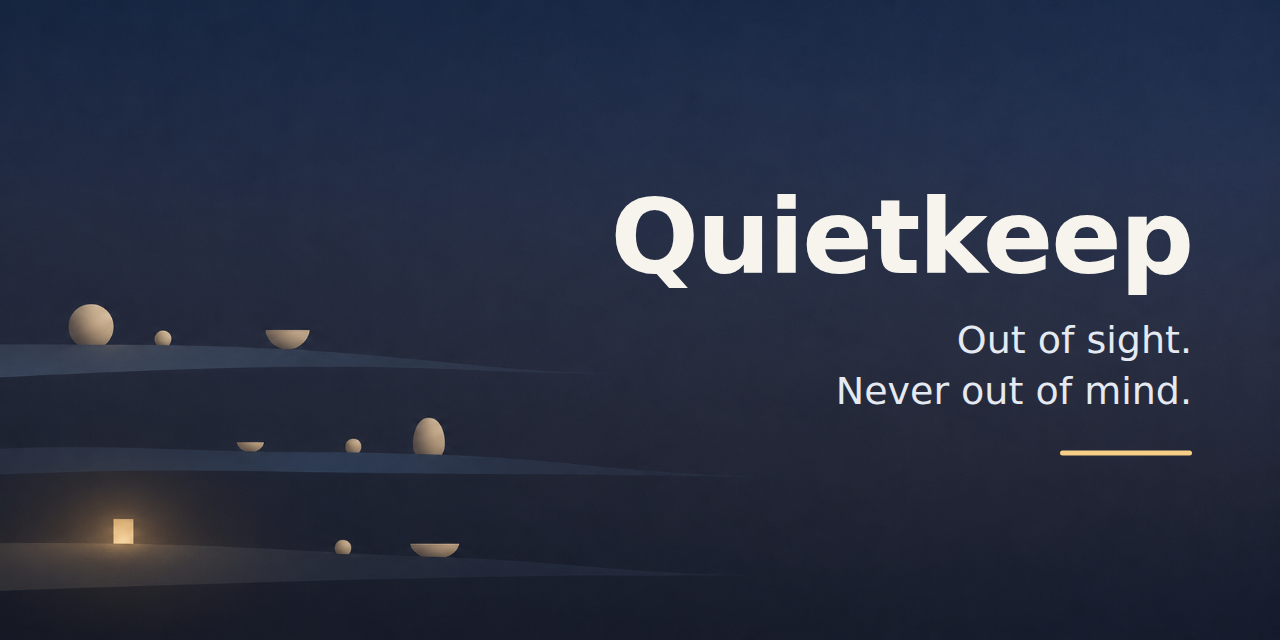
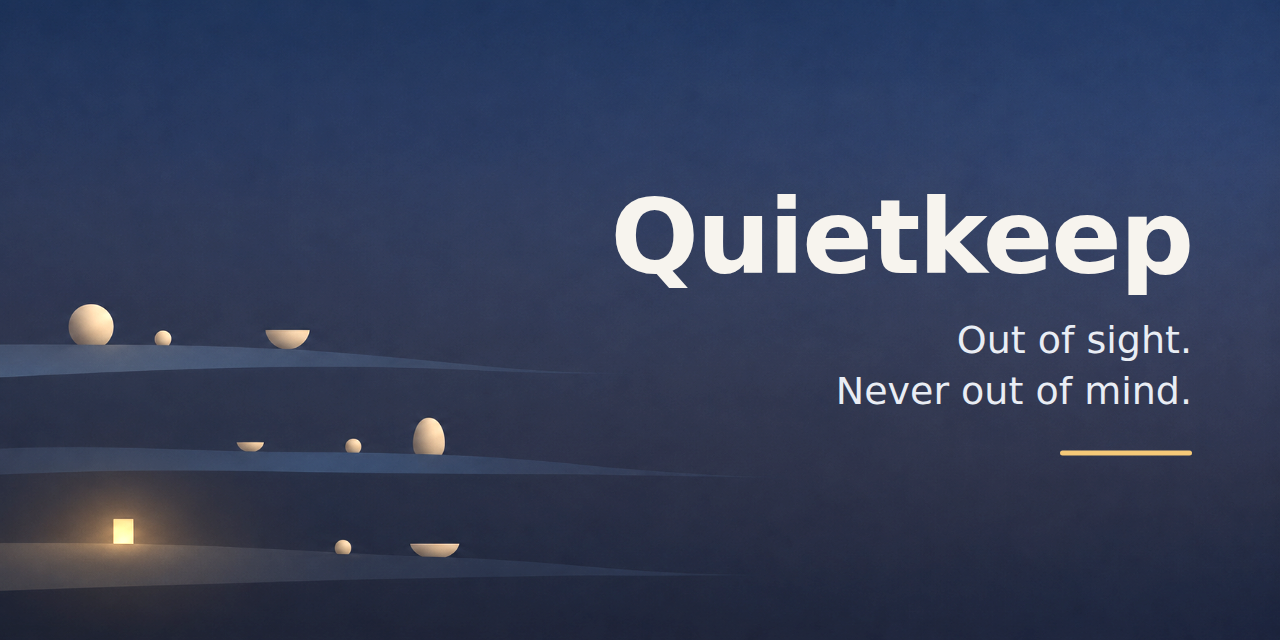
No spiral, and the mark comes out of the dark
Two calls from Noah, both right.

NO SPIRAL. Both loop candidates are dead for a reason better than the
ones I gave. "A spiral is the loss of control, and anxiety laden" — it
is the shape of tightening inward with no way out. Quietkeep exists to
meet people at exactly that moment, so putting it on the front door says
the app is the feeling rather than the answer to it. However good the
geometry, that is a voice failure.

Every check I ran on those two was a COLLISION check: does this look
like another brand, an app icon, a spinner. None asked what the shape
means to the audience. That is the visual form of never saying the name
aloud, and it is the same failure as wince.

It is now a flat product rule in CLAUDE.md — no spiral anywhere, not the
identity, not a loading state, not an illustration — beside no red walls
and no streaks. Reasoning in ADR-0025.

LESS DARK. Not a straight lighten, which turned out to be impossible.
The mark is a three-step ladder (wall 3:1 over field, light 3:1 over
wall), so it needs ~9:1 of range end to end. A light field leaves
nowhere for the light to go; every lift-everything variant failed the
second step at 2.0-2.4:1.

So the wall inverted instead: warm paper field, dark wall, warm opening.
The opening still reads as lit because what surrounds it is dark, which
is the one property the whole idea depends on. It measures better too —
8.92:1 and 6.48:1 against the old 3.34:1 and 3.45:1 — and the old wall
[…]

diff --git a/docs/adr/0025-visual-identity.md b/docs/adr/0025-visual-identity.md
@@ -28,13 +28,29 @@ and SVG is text, so the identity is diffable and reviewable like everything else
 
 | Candidate | Why not |
 |---|---|
-| Thin spiral | The stroke and its gap both vanish at 48px. Reads as an **@ sign**, and is one frame from a loading spinner. |
-| Bold loop | The best *idea* of the three — something leaves and returns, which is the product. Same **@ / spinner** collision, plus a drop shadow that muddies at small sizes and breaks on light surfaces. |
+| Thin spiral | The stroke and its gap both vanish at 48px. Reads as an **@ sign**, and is one frame from a loading spinner. **And it spirals** — see below, which is the disqualifying reason. |
+| Bold loop | The best *idea* of the three — something leaves and returns, which is the product. Same **@ / spinner** collision, a drop shadow that muddies at small sizes and breaks on light surfaces, and **the same spiral problem**. |
 | Lit opening | The right idea and the right bones. But the outer form was **slate on navy**, a luminance step small enough that at 48px the form disappears and only the amber survives; and its silhouette — rounded top, straight sides, flat base — **reads as a headstone**. For an app whose entire promise is that nothing you put in is lost, a grave marker is the worst reading available. |
 
-The drawn mark keeps the third one's idea and fixes both faults: the shelter is a **rounded
-square** — a wall, not a marker — measured at 3.34:1 against the field, and the arch now
-appears only in the warm opening.
+The drawn mark keeps the third one's idea and fixes both faults: the wall is a **rounded
+square** — a wall, not a marker — and the arch now appears only in the warm opening.
+
+**No spiral, and that rule outranks every legibility argument above.** Noah's call:
+*"spiraling looks bad… a spiral is the loss of control, and anxiety laden."*
+
+That is the whole reason, and it is not a matter of taste. **A spiral is loss of control.**
+It is the shape of a thing tightening inward with no way out, and the word carries anxiety
+with it wherever this app's users hear it. Quietkeep exists precisely because control has
+been lost — that is the condition it meets people in — so putting the loss on the front
+door tells them the app is the feeling rather than the answer to it. However elegant the
+geometry, that is a voice failure, and the voice rules do not bend for a nice shape. The
+same rule that killed *wince* kills this.
+
+This generalises, and it is why the check order gains a step. **A mark has to be checked
+against the audience's own vocabulary, not only against other logos.** Every check run on
+those two candidates was a *collision* check — does this look like another brand, another
+icon, a spinner. None asked what the shape *means to the people who will use it*. That is
+the visual equivalent of never saying the name aloud.
 
 **The two background candidates split on something that had nothing to do with quality.**
 The rejected one — scattered dots on curving arcs — is arguably the cleaner image, and it
@@ -61,6 +77,14 @@ as a picture. *It holds the rest, so you can rest.*
 - **No red, no amber in the identity.** `--light` is the one warm colour and it means *lit*,
   never *late*. B-01's no-red-walls rule is a palette rule too — a colour that means
   "attention" in the brand will eventually mean "you failed" in the UI.
+- **The field is light and the wall is dark, and that inversion was forced by arithmetic.**
+  Noah asked for something less dark. Paling the whole mark is impossible: the three-step
+  ladder needs ~9:1 of range, so a light field leaves nowhere for the light to go — every
+  lift-everything variant failed at 2.0–2.4:1. Inverting the wall keeps the opening reading
+  as *lit*, and it measured **better**: 8.92:1 / 6.48:1 against the old 3.34:1 / 3.45:1.
+  Recorded in `ACCESSIBILITY.md` B-10 with the rejected variants.
+- **No spiral, ever**, per the rule above. It belongs with *no red walls* and *no streaks*
+  as a thing the identity structurally cannot say.
 - The app shell does not exist yet, so nothing consumes these icons. They are ready for the
   manifest the day Phase 1 lands.
 

diff --git a/ACCESSIBILITY.md b/ACCESSIBILITY.md
@@ -101,21 +101,44 @@ it**. `tools/brand.mjs` is that gate for these.
 
 | Token | Value | What it is |
 |---|---|---|
-| `--field` | `#131B2E` | the deep field the mark sits on |
-| `--shelter` | `#5C6E8F` | the holding form — a wall, not a marker |
-| `--light` | `#F6CE86` | the lit opening. The **only** warm note in the identity |
+| `--field` | `#F4F1E9` | warm paper — the field the mark sits on |
+| `--wall` | `#33425F` | the sheltering form — a wall, not a marker |
+| `--light` | `#F5C978` | the lit opening. The **only** warm note in the identity |
 | `--type-strong` | `#F7F4EE` | the wordmark |
-| `--type` | `#E4E9F2` | secondary type on dark |
+| `--type` | `#E9EDF4` | secondary type on dark |
 
 **Measured, not eyeballed** — every pair the mark actually renders:
 
 | Pair | Ratio | Needs | Why that threshold |
 |---|---|---|---|
-| shelter / field | **3.34:1** | 3:1 | WCAG 1.4.11, non-text graphical object |
-| light / shelter | **3.45:1** | 3:1 | same |
-| light / field | **11.51:1** | — | comfortably clear |
-| wordmark / plate | **11.26:1** worst | 4.5:1 | measured against the actual social-preview pixels behind it, at the worst sample |
-| tagline / plate | **10.60:1** worst | 4.5:1 | same |
+| wall / field | **8.92:1** | 3:1 | WCAG 1.4.11, non-text graphical object |
+| light / wall | **6.48:1** | 3:1 | same |
+| wordmark / plate | **8.50:1** worst | 4.5:1 | measured against the actual social-preview pixels behind it, at the worst sample |
+| tagline / plate | **8.45:1** worst | 4.5:1 | same |
+| rule / plate | **7.34:1** worst | 3:1 | same |
+
+### Why the field is light, and why that was not just a taste call
+
+The first palette was near-black (`#131B2E` field, `#5C6E8F` wall) and Noah asked for
+something less dark. **Simply paling everything is impossible here, and the arithmetic says
+why.** The mark is a three-step ladder — wall must clear 3:1 above the field, and the light
+must clear 3:1 above the wall — so it needs roughly a **9:1 span** end to end. A light field
+leaves no room upward; every "lift the whole thing" variant failed the second step at
+2.0–2.4:1.
+
+**So the wall inverted instead.** Light paper, dark wall, warm opening. The opening still
+reads as *lit* because what surrounds it is dark — that is the one property the whole idea
+depends on, and paling the wall would have destroyed it.
+
+The lighter palette is also **measurably more legible**, which is the part worth keeping:
+the ladder went from 3.34:1 / 3.45:1 to **8.92:1 / 6.48:1**, and in grayscale the old wall
+nearly merged with its field at 32–48px where the new one stays crisp. The taste call and
+the measurement agreed.
+
+The social preview's source image is dusk-dark and is lifted `brightness(1.35)
+saturate(1.05)` in the composite. Heavier lifts were rendered and rejected: at 1.8 and 2.4
+the scene flattens and the single small lamp stops reading as a light, which is the whole
+subject.
 
 **The warm note is never an alarm.** `--light` is the app's one warm colour and it
 means *lit*, *held*, *here* — never *late* and never *wrong*. B-01's no-red-walls
@@ -127,11 +150,12 @@ eventually mean "you failed" in the UI.
 the field stay separated with hue removed — the same pass condition B-01 sets for
 every pressure surface, applied to the identity so the two cannot drift apart.
 
-**Proven in CI, not just locally** — Spine run 7, `fac16df`, green, with every
-ratio above identical to the local run. Per [V-10](docs/verifications.md), a gate
-nobody has watched pass is a file; this one was watched. CI installed **chromium
-build v1194**, which is the revision `playwright-core` 1.56.0 pins to — the
-matched pair held on a machine that is not this sandbox.
+**Proven in CI, not just locally.** Spine run 7 (`fac16df`) was watched green with
+every ratio identical to the local run, on the first palette; the palette above
+supersedes it and its run is watched the same way. Per
+[V-10](docs/verifications.md), a gate nobody has watched pass is a file. CI
+installed **chromium build v1194**, the revision `playwright-core` 1.56.0 pins to
+— the matched pair held on a machine that is not this sandbox.
 
 ---
 

diff --git a/CLAUDE.md b/CLAUDE.md
@@ -47,6 +47,15 @@ Epigraph: *"It holds the rest, so you can rest."*
 - **Voice:** adult, calm, shame-free, civilian. No military vocabulary in naming
   or brand copy. Never childlike or mascot-cute. No diagnosis-flavoured copy, no
   sentiment scoring, no cause attribution.
+- **No spiral. Anywhere.** Not in the identity, not in a loading state, not in an
+  illustration. **A spiral is loss of control and it is anxiety-laden** — it is the
+  shape of tightening inward with no way out, and it names the condition this app
+  meets people in. It belongs beside *no red walls* and *no streaks* as something
+  the product structurally cannot say ([ADR-0025](docs/adr/0025-visual-identity.md)).
+- **The voice rules bind the artwork, not only the words.** Check a mark against
+  the audience's own vocabulary, not only against other logos. "Does this look like
+  something else" is a collision check, and it is a lesser question than "what does
+  this mean to the people who will use it".
 - **Storage is IndexedDB via Dexie.** `localStorage` is banned outright.
 
 ## Branches & releases
